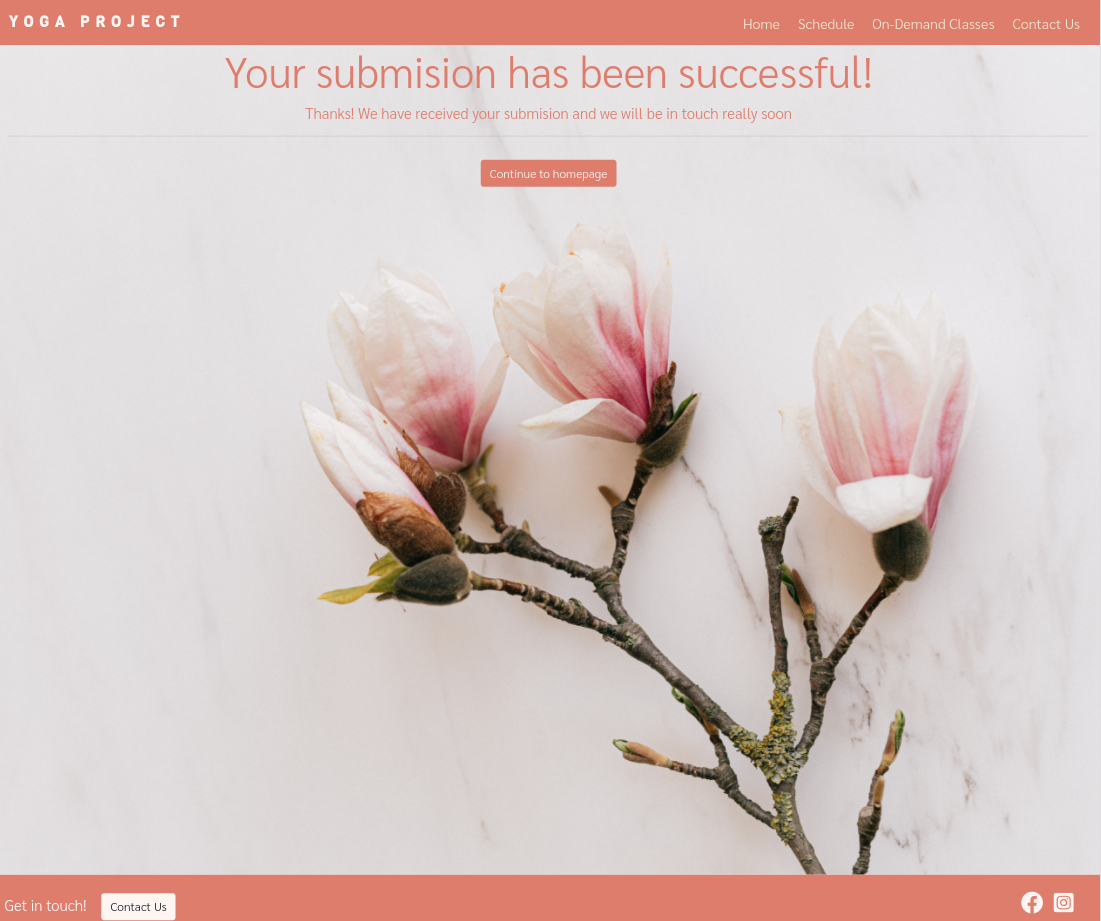
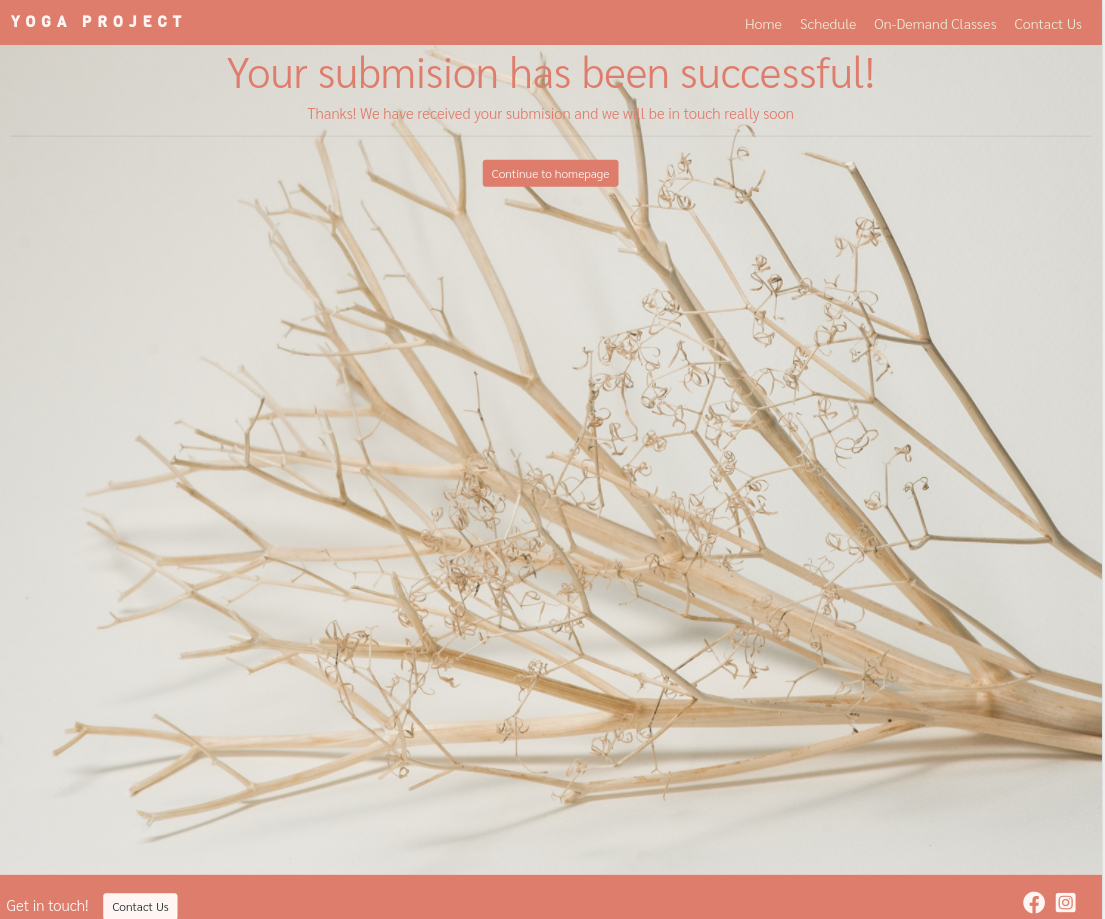
change success screenshot to match new image

diff --git a/assets/css/style.css b/assets/css/style.css
@@ -206,7 +206,7 @@ img {
     margin-top: 60px;
     height: 90vh;
     width: 100%;
-    color: #DF7D6D;
+    color: #BB8378;
 }
 
 

diff --git a/README.md b/README.md
@@ -114,12 +114,7 @@ The wireframes that can be found below have been created using Balsamiq suring t
 
 I have done the testing for my website using the dev tools on google chrome. I have been testing regulary checking that the results were the expected on different sizes, from mobile devices to desktop and tablet, making sure the website was responsive in all of them.
 
-At later stage, when the site was deployed, I have tested the website on the following devices
-Acer Chromebook 715
-Dell Optiplex 3020
-Samsung Galaxy A71
-Pixel 3a
-
+At later stage, when the site was deployed, the website was tested by family and friends who looked on different devices anda gace feedback on responsitivity and user experience.
 ### Validator testing
 To check the validity of the codes I have used [W3C Markup Validation](https://validator.w3.org/) and [W3C CSS Validation](https://jigsaw.w3.org/css-validator/)
 
@@ -181,9 +176,11 @@ To do so I created the jumbotron class, there was few issues with the image not 
 
 * The modal header has been problematic when I have tried the validator as my initial code with a 'p' element being a child of a 'h4' wasn't correct. I did find the answer on [strackoverflow](https://stackoverflow.com/questions/50026151/bootstrap-4-add-a-subtitle-to-a-modal/50026307) using 'br' and 'small' instead.
 
-### Suported screens and browers
+### Suported screens and browsers
 
+The testing on the computer and laptop followed the 
 
+Google Chrome: website worked as expected
 
 
 
